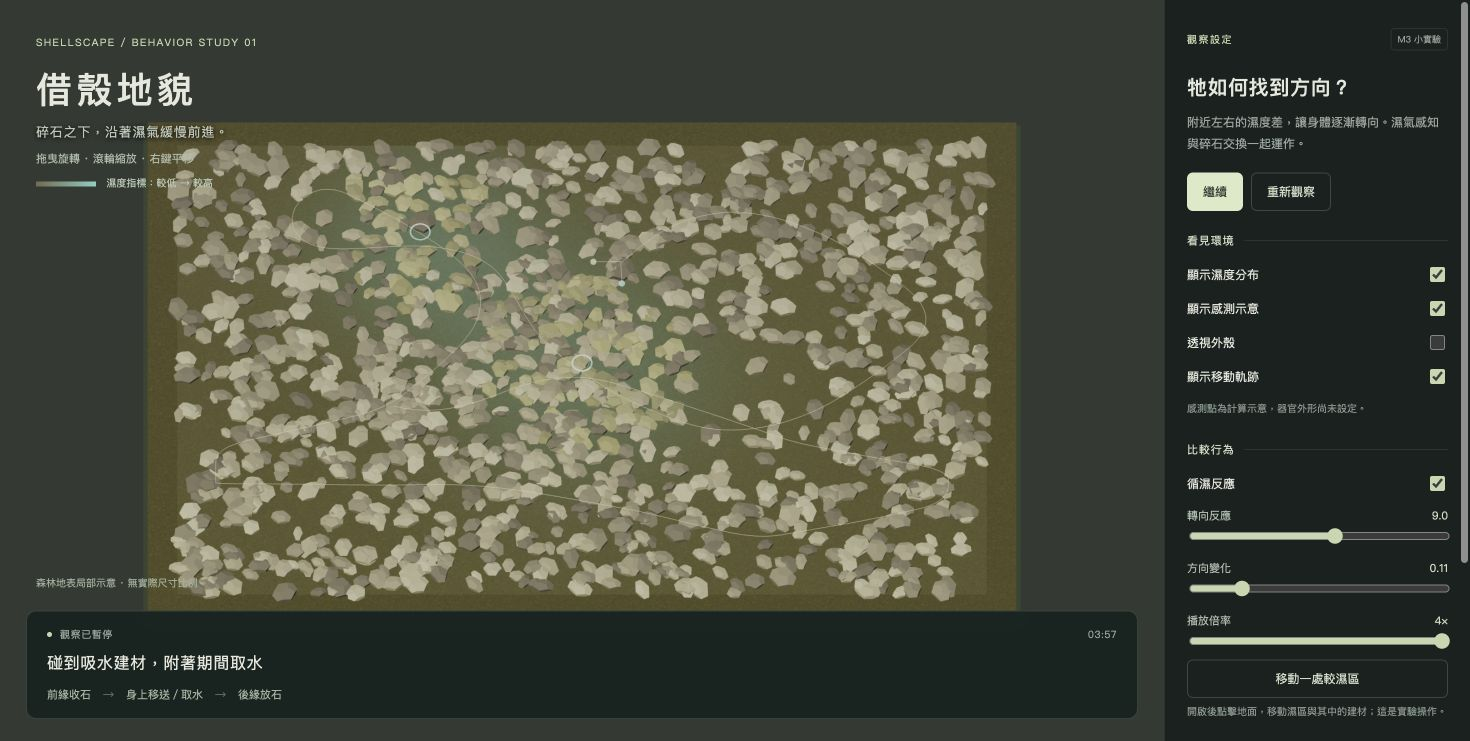
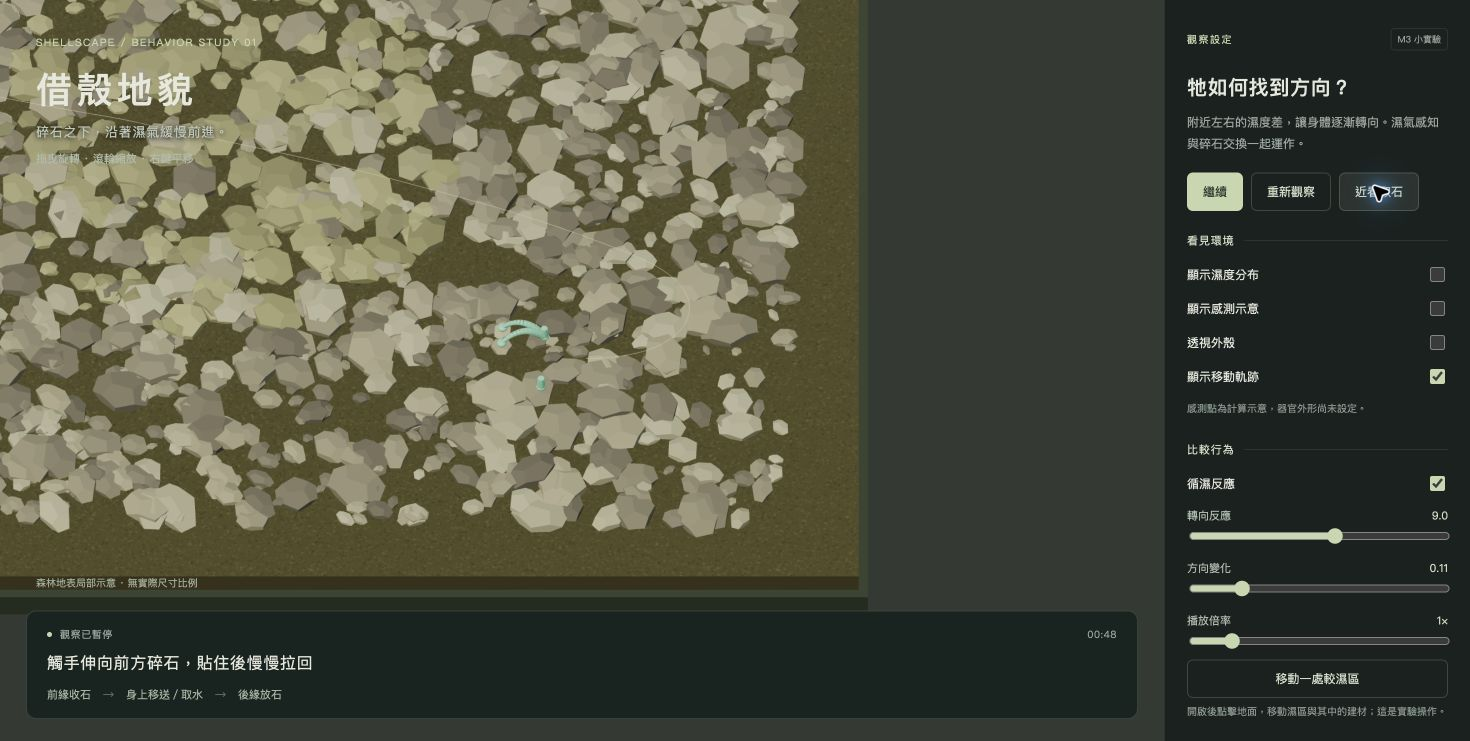
feat: add denser gravel and visible tentacle pickup

diff --git a/m3-creature/style.css b/m3-creature/style.css
@@ -1,1 +1,2 @@
 :root{color-scheme:dark;--bg:#101917;--panel:#18211f;--ink:#e6e7dc;--muted:#9ba9a0;--line:#c0cfb51c;--accent:#c4d8ad}*{box-sizing:border-box}body{margin:0;background:var(--bg);color:var(--ink);font-family:"PingFang TC","Noto Sans TC",sans-serif;font-size:13px}.app{display:grid;grid-template-columns:minmax(0,1fr) 306px;min-height:100vh}.observation{position:relative;min-width:0;height:100vh;overflow:hidden;background:#28302b}#stage{position:absolute;inset:0}canvas{display:block;touch-action:none}header{position:absolute;left:36px;top:32px;pointer-events:none}.eyebrow{font-size:10px;letter-spacing:.15em;color:var(--accent)}h1{font-size:36px;font-weight:500;letter-spacing:.12em;margin:14px 0 8px}header p{font-size:13px;color:#bdc7b8;margin:0;letter-spacing:.06em;text-shadow:0 1px 6px #000}.scene-tip{position:absolute;left:36px;top:151px;color:#b1bdad;font-size:11px}.scene-note{position:absolute;left:36px;bottom:151px;font-size:10px;color:#a2b09e}.readout{position:absolute;left:26px;right:26px;bottom:22px;padding:16px 20px;background:#14221fea;backdrop-filter:blur(14px);border:1px solid #c9dac52a;border-radius:10px;pointer-events:none}.readout-top{display:flex;gap:8px;align-items:center;color:var(--muted);font-size:10px;letter-spacing:.06em}#time{margin-left:auto;font-variant-numeric:tabular-nums}.live-dot{width:5px;height:5px;border-radius:50%;background:var(--accent)}#event{font-size:16px;letter-spacing:.04em;margin:10px 0 13px}.cycle{display:flex;gap:12px;color:#a6b7a3;font-size:11px;align-items:center}.cycle i{font-style:normal;color:#61715f}.controls{padding:28px 22px 24px;background:var(--panel);border-left:1px solid var(--line);height:100vh;overflow:auto}.panel-heading{display:flex;align-items:center;justify-content:space-between}.tag{color:var(--muted);font-size:9px;border:1px solid var(--line);padding:4px 6px;border-radius:4px}h2{font-size:20px;font-weight:500;margin:23px 0 10px;letter-spacing:.03em}.intro{color:var(--muted);font-size:12px;line-height:1.8;margin:0 0 18px}.buttons{display:flex;gap:8px}button{border:1px solid transparent;border-radius:6px;background:var(--accent);color:#1c2a20;font:inherit;font-size:12px;padding:10px 15px;cursor:pointer;transition:background .15s}button:hover{background:#dbe9c7}.secondary{background:transparent;border-color:#b0c2a63d;color:#d2ddc9}.secondary:hover,.secondary[aria-pressed=true]{background:#b0c2a61c}.wide{width:100%;margin-top:8px}fieldset{border:0;border-top:1px solid var(--line);padding:16px 0 3px;margin:22px 0 0}legend{padding:0 10px 0 0;font-size:11px;color:#cfdbc5;letter-spacing:.08em}.switch{display:flex;justify-content:space-between;align-items:center;margin:0 0 13px;font-size:12px;cursor:pointer}input[type=checkbox]{accent-color:var(--accent);width:15px;height:15px;cursor:pointer}.hint{color:#89998f;font-size:10px;line-height:1.7;margin:5px 0 0}.range-label{display:flex;align-items:center;justify-content:space-between;color:#afbeb1;font-size:11px;margin:14px 0 5px}output{font-variant-numeric:tabular-nums;color:#d5dec9}input[type=range]{width:100%;height:12px;accent-color:var(--accent);cursor:pointer}.metrics{border:1px solid var(--line);background:#101a173b;padding:12px;margin-top:19px;border-radius:7px}.metrics>div{display:flex;justify-content:space-between;gap:10px;margin:9px 0;font-size:10px;color:#9faf9f}.metrics strong{font-weight:500;color:#d8e2cf;font-variant-numeric:tabular-nums}.boundary{font-size:10px;color:#829287;line-height:1.8;margin:15px 0 9px}.reading{font-size:10px;color:#b9cba9;text-decoration:none}.reading:hover{text-decoration:underline}.legend{position:absolute;left:36px;top:176px;color:#b8c9b4;font-size:10px}.legend span{display:inline-block;width:60px;height:5px;background:linear-gradient(90deg,#726b50,#83cfc0);margin-right:7px;vertical-align:middle}#error{position:absolute;left:24px;right:24px;top:43%;padding:20px;background:#341f1f;color:#ffcdc4;border:1px solid #a7786b;line-height:1.8}[hidden]{display:none!important}@media(max-width:800px){.app{grid-template-columns:minmax(0,1fr) 260px}.controls{padding:22px 16px}header{left:24px;top:24px}h1{font-size:29px}.scene-tip,.legend{left:24px}.scene-note{left:24px}.cycle{gap:6px;font-size:9px}#event{font-size:13px}.readout{left:14px;right:14px;padding:14px}}@media(max-width:590px){.app{display:block}.observation{height:62vh;min-height:420px}.controls{height:auto;border-left:0;border-top:1px solid var(--line);padding:24px}.scene-tip{top:139px}header h1{font-size:27px}.legend{top:161px}.scene-note{display:none}.readout{bottom:12px}h2{margin-top:16px}}
+.observation::after{content:"";position:absolute;inset:0 0 auto;height:195px;background:linear-gradient(#14221fd9,transparent);pointer-events:none}header,.scene-tip,.legend{z-index:1}header{text-shadow:0 2px 10px #09110b}.buttons{flex-wrap:wrap}

diff --git a/m3-creature/index.html b/m3-creature/index.html
@@ -30,7 +30,7 @@
       <div class="panel-heading"><span class="eyebrow">觀察設定</span><span class="tag">M3 小實驗</span></div>
       <h2>牠如何找到方向？</h2>
       <p class="intro">附近左右的濕度差，讓身體逐漸轉向。濕氣感知與碎石交換一起運作。</p>
-      <div class="buttons"><button id="pause">暫停</button><button id="reset" class="secondary">重新觀察</button></div>
+      <div class="buttons"><button id="pause">暫停</button><button id="reset" class="secondary">重新觀察</button><button id="closeup" class="secondary" aria-pressed="true">近看取石</button></div>
       <fieldset>
         <legend>看見環境</legend>
         <label class="switch"><span>顯示濕度分布</span><input id="moisture" type="checkbox"></label>

diff --git a/m3-creature/README.md b/m3-creature/README.md
@@ -18,10 +18,12 @@ python3 -m http.server 8765 --bind 127.0.0.1
 
 ### 怎麼觀察
 
+目前地面有 3,900 顆碎石，其中新增 2,420 顆較細的小碎石。「近看取石」預設開啟並跟隨生物，可切換回全景。
+
 1. 打開「顯示濕度分布」與「顯示感測示意」，比較左右濕度指標與轉彎。數字是 0～1 的示意指標，不是實測相對濕度。
 2. 切換「循濕反應」作對照；可調轉向反應、方向變化及播放倍率。
 3. 開啟「移動一處較濕區」，再點地面，會移動第一處濕區和其中未被拾起的建材；這是實驗控制，不是生物能力。
-4. 觀察碎石前緣收進、後緣放回，以及取水累計。每塊碎石只有一份狀態，不會因拾取或放回而新增石塊；初始已有 16 塊在身上，故開始時放回數可比新拾取數多。
+4. 觀察觸手伸出、貼住石頭、拉回身前，再沿身體移送到後方放回，以及取水累計。最多四條取石觸手同時伸展，這是動作展示參數；觸手不等於先前延後討論的濕氣感知器官。每塊碎石只有一份狀態，不會因拾取或放回而新增石塊；初始已有 16 塊在身上，故開始時放回數可比新拾取數多。
 5. 用「透視外殼」查看薄小本體。預設隱藏本體網格、只呈現碎石，是這輪觀看效果的簡化；不是完整驗證了石塊的物理遮蔽。
 
 ### 程式做了什麼
@@ -34,12 +36,14 @@ python3 -m http.server 8765 --bind 127.0.0.1
 ### 驗證與界線
 
 - `node --check` 檢查兩份程式與 `git diff --check` 通過。
-- `node --test m3-creature/simulation.test.mjs` 三項通過：左右濕區對調與關閉循濕的控制、180 秒模擬的碎石／水量守恆與放回前取水完成、暫停及移動濕區時的狀態維持。
+- `node --test m3-creature/simulation.test.mjs` 四項通過：左右濕區對調與關閉循濕的控制、180 秒模擬的碎石／水量守恆與放回前取水完成、暫停及移動濕區時的狀態維持、觸手接觸前石頭不移動且完成拉回後才計入拾取。
 - Chrome 已實際載入 3D、觀察取水累計增加，操作濕度圖、感測、透視、循濕對照、倍率、濕區移動、暫停與重新觀察；軌跡緩衝區問題已修正，新分頁持續操作後的 warning/error 清單為空，詳見 [卡點與解法](debug-note.md)。
 - 這是局部地表實驗，濕度場、取水速度、建材分布、薄膜尺寸與觀察區邊緣導回都是測試參數；沒有模擬實際濕氣傳播、石塊碰撞、高溫腐蝕、能量、體內儲水上限或繁殖。
 - 本版為依 Luna 描述做的第一輪實驗，仍需 Luna 親自檢視動作與採用範圍；未宣稱本人閱讀、反思、老師檢核或完整 M3 交付完成。
 
 AI：Codex；2026-10-22；Prompt 摘要：先用第 1 種演算法試作，選擇網頁版；採用範圍：依 Luna 的生物描述實作轉向、地面石塊交換、接觸取水、介面與對照開關、程式測試、Chrome 實測與卡點紀錄。使用既有 Three.js 本地依賴，新增程式與參數由 AI 實作。未代寫本人反思、創作理由或研究結論。
+
+追加 AI 揭露：依 Luna 要求增加細碎石、強化伸觸手拿石頭的動作；新增分段取石狀態、可見彎曲觸手與近看跟隨視角，延長取石過程方便觀察。此為動作示意，未新增真實受力或感知器官設定。未代寫反思。
 
 > 截止：11/12（四）上課前 15:30
 > 這一站在做什麼、怎麼做、卡住看哪裡，都在課程頁：<https://course.interaction.tw/oop/#milestones>

diff --git a/m3-creature/notes.md b/m3-creature/notes.md
@@ -2,6 +2,17 @@
 
 同日多次討論按最新進度置頂；較早段落的「尚未實作」等狀態是當時紀錄，請以最新小實驗段落為準。
 
+## 2026-10-22｜增加細碎石與可見取石觸手
+
+- Luna 要求增加小碎石，並讓伸觸手拿石頭的部分更明顯，已授權本次調整。
+- 地面碎石由 1,480 顆增為 3,900 顆；新增的 2,420 顆使用較小尺寸，保留大小混合。
+- 原本直接拾取改成約 1.65 秒的伸展、接觸、拉回狀態，再轉入身上的移送與取水。石頭在接觸前維持原地，拉回過程移動的就是同一顆地面石頭。
+- 增加最多四條彎曲取石觸手，使用較有對比的青綠色與可見厚度；這是 Luna 要求的取石動作表現，未將其設定為濕氣感知器官。
+- 新增預設開啟的「近看取石」，放大並跟隨生物；可切回全景。
+- 四項 Node 測試通過，新增取石延遲與狀態轉換測試，既有水量／石塊守恆測試仍通過；語法與差異檢查通過。
+- Chrome 已實際觀察到青綠色觸手伸展與取石，驗證近看／全景切換及暫停／繼續，warning/error 清單為空；已更新實際畫面 `preview.png`。
+- AI：Codex；2026-10-22；採用範圍：依 Luna 的畫面回饋調整碎石、取石狀態、觸手及鏡頭。未代寫本人反思或設計理由，未宣稱真實物理或生理驗證。
+
 ## 2026-10-22｜已授權網頁小實驗與實際結果
 
 - Luna 在五種比較後要求「那先用一下去做」，本輪明確告知按第 1 種 Braitenberg 試作；Luna 隨後選擇「先用網頁版」。這是目前實驗的授權，未自行回頭修改原 M2 模型或 Rust 版。
